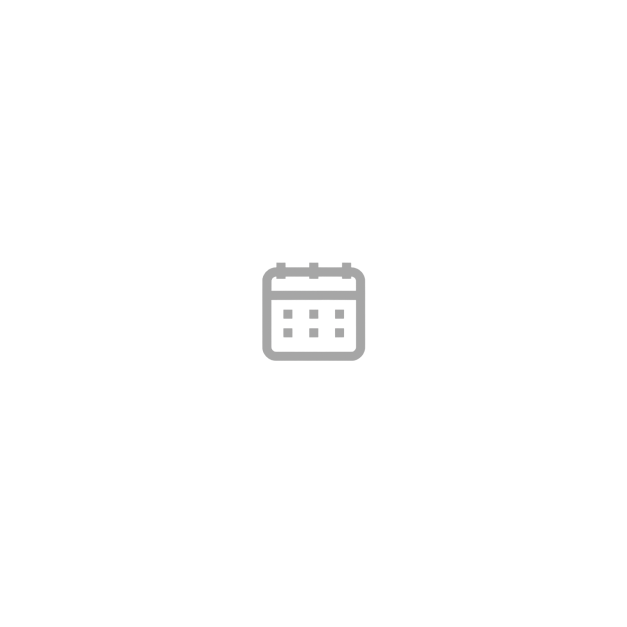
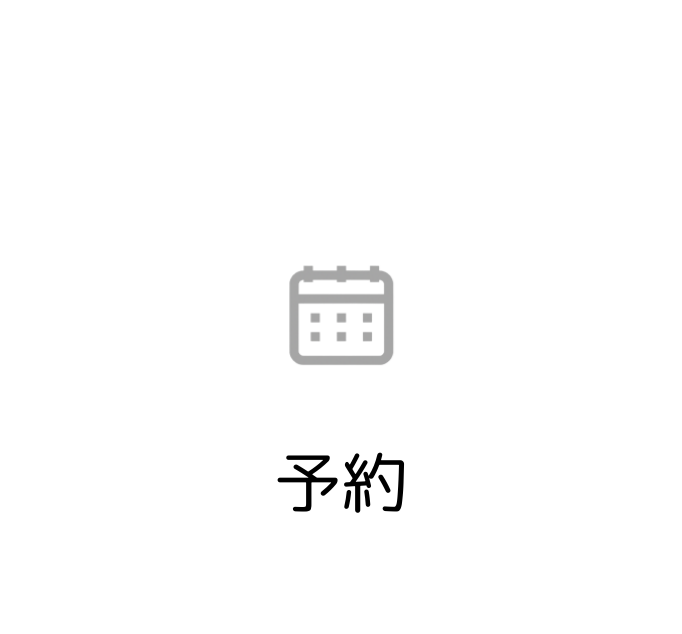
画像の入れ替え

Changed region(s): [[0.4242, 0.697, 0.6061, 0.8182], [0.5455, 0.4242, 0.6061, 0.5758], [0.3939, 0.4242, 0.4545, 0.5758]]

diff --git a/src/resources/views/components/menubar.blade.php b/src/resources/views/components/menubar.blade.php
@@ -1,22 +1,17 @@
 <div class="btn-list">
     <a class="btn" href="{{ route('index') }}">
         <img src="{{ asset('images/home.png') }}" alt="Image Description">
-        ホーム
     </a>
     <a class="btn" href="{{ route('prep.index') }}">
         <img src="{{ asset('images/selection-preparation.png') }}" alt="Image Description">
-        選考対策
     </a>
     <a class="btn" href="{{ route('research.index') }}">
         <img src="{{ asset('images/research-industry.png') }}" alt="Image Description">
-        選考情報
     </a>
     <a class="btn" href="{{ route('reserve.index') }}">
         <img src="{{ asset('images/reserving.png') }}" alt="Image Description">
-        予約
     </a>
     <a class="btn" href="{{ route('mypage.index') }}">
         <img src="{{ asset('images/my-page.png') }}" alt="Image Description">
-        マイページ
     </a>
 </div>
